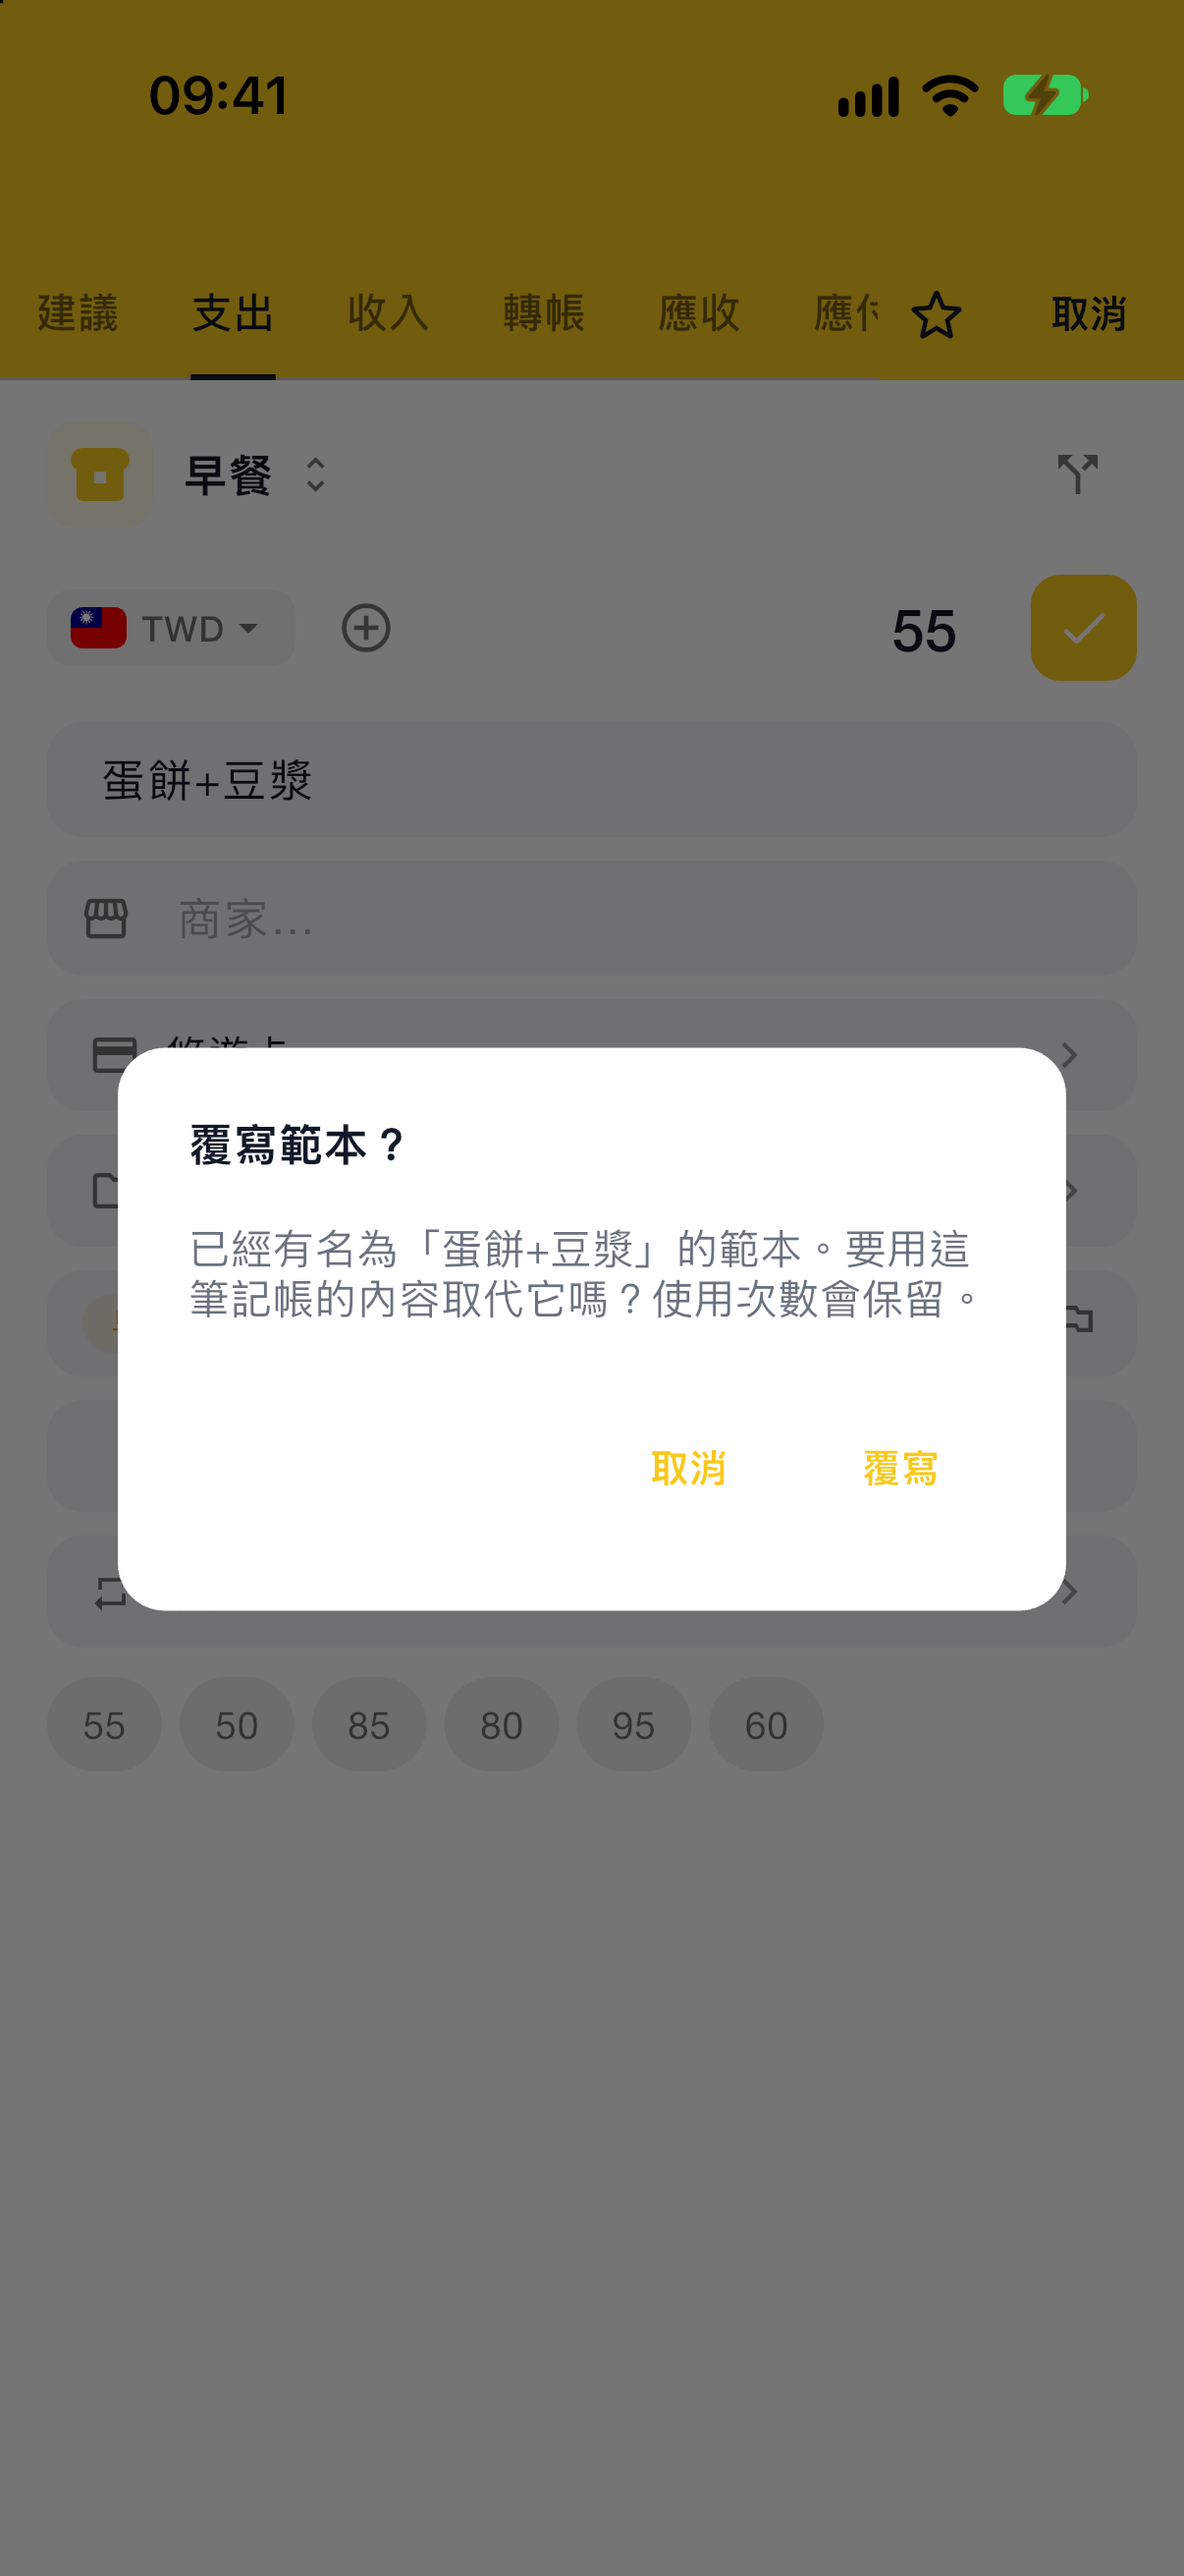
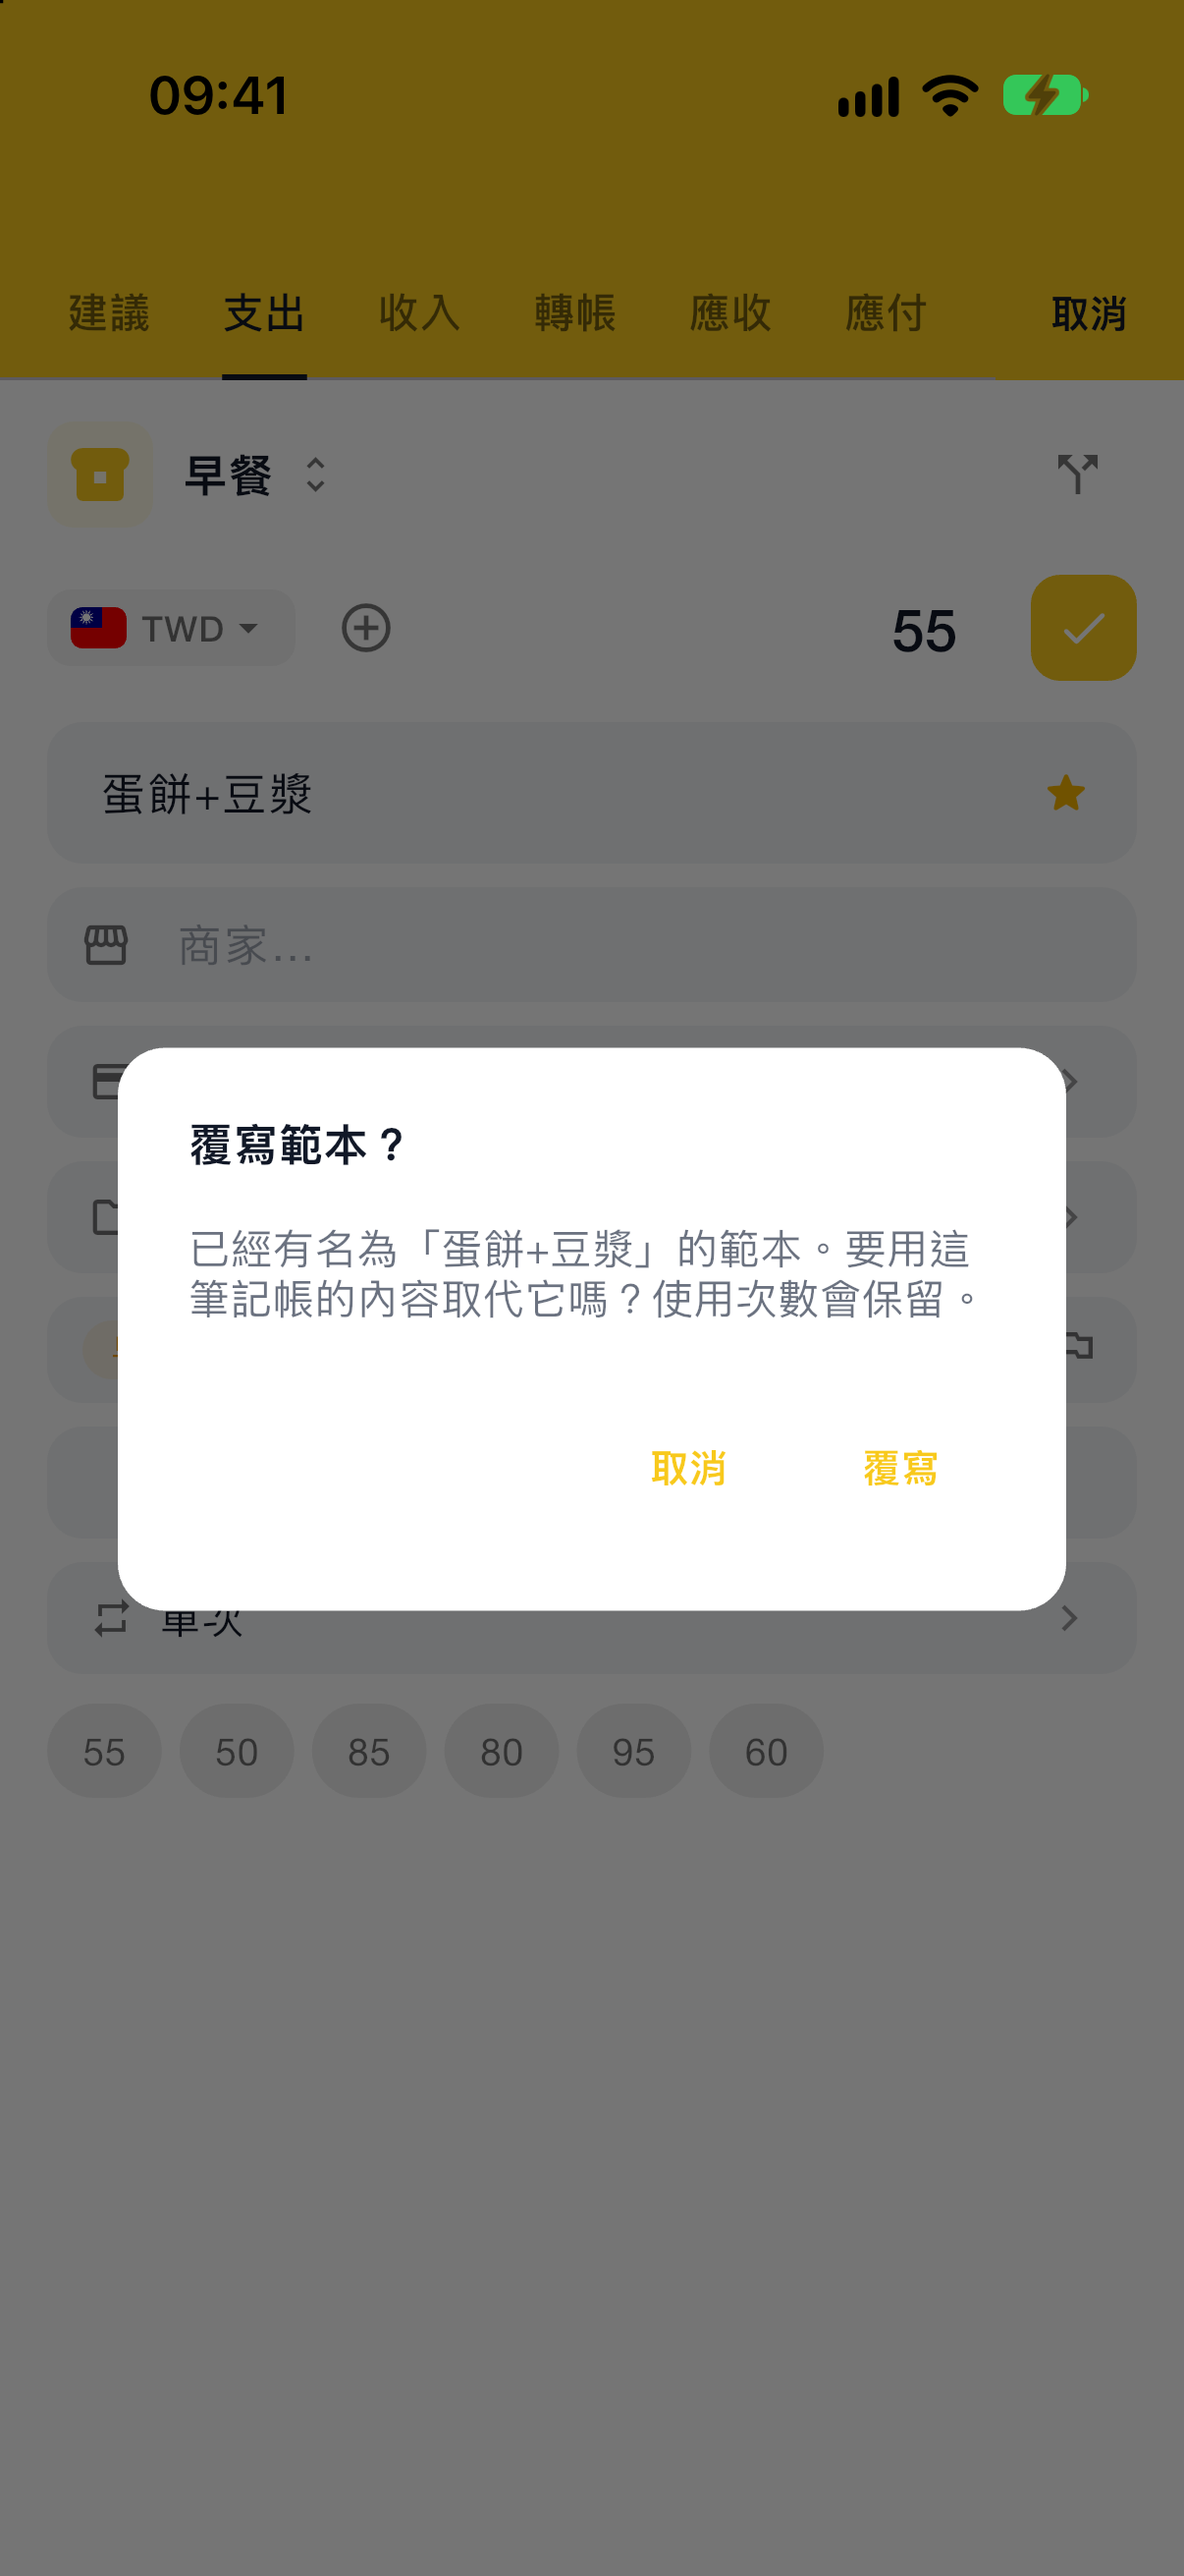
docs: 交易範本手冊改為名稱欄 ☆，重拍 App 截圖並補上實心星說明

diff --git a/docs/faq.md b/docs/faq.md
@@ -53,7 +53,7 @@ App 在「我的 → 自動化 → 週期記帳」，分期付款在進階設定
 
 ### 交易範本在哪裡？
 
-App 與 Web 都有。App 在記帳頁右上角點 ☆ 存成範本，之後點「名稱」欄就能套用；管理在「我的 → 交易範本」。Web 在右上角頭像 →「工具」→「交易範本」。見[交易範本](./record/template.md)。
+App 與 Web 都有。App 在記帳頁「名稱」欄最右邊點 ☆ 存成範本，之後點「名稱」欄就能套用；管理在「我的 → 交易範本」。Web 在右上角頭像 →「工具」→「交易範本」。見[交易範本](./record/template.md)。
 
 ## 信用卡
 
